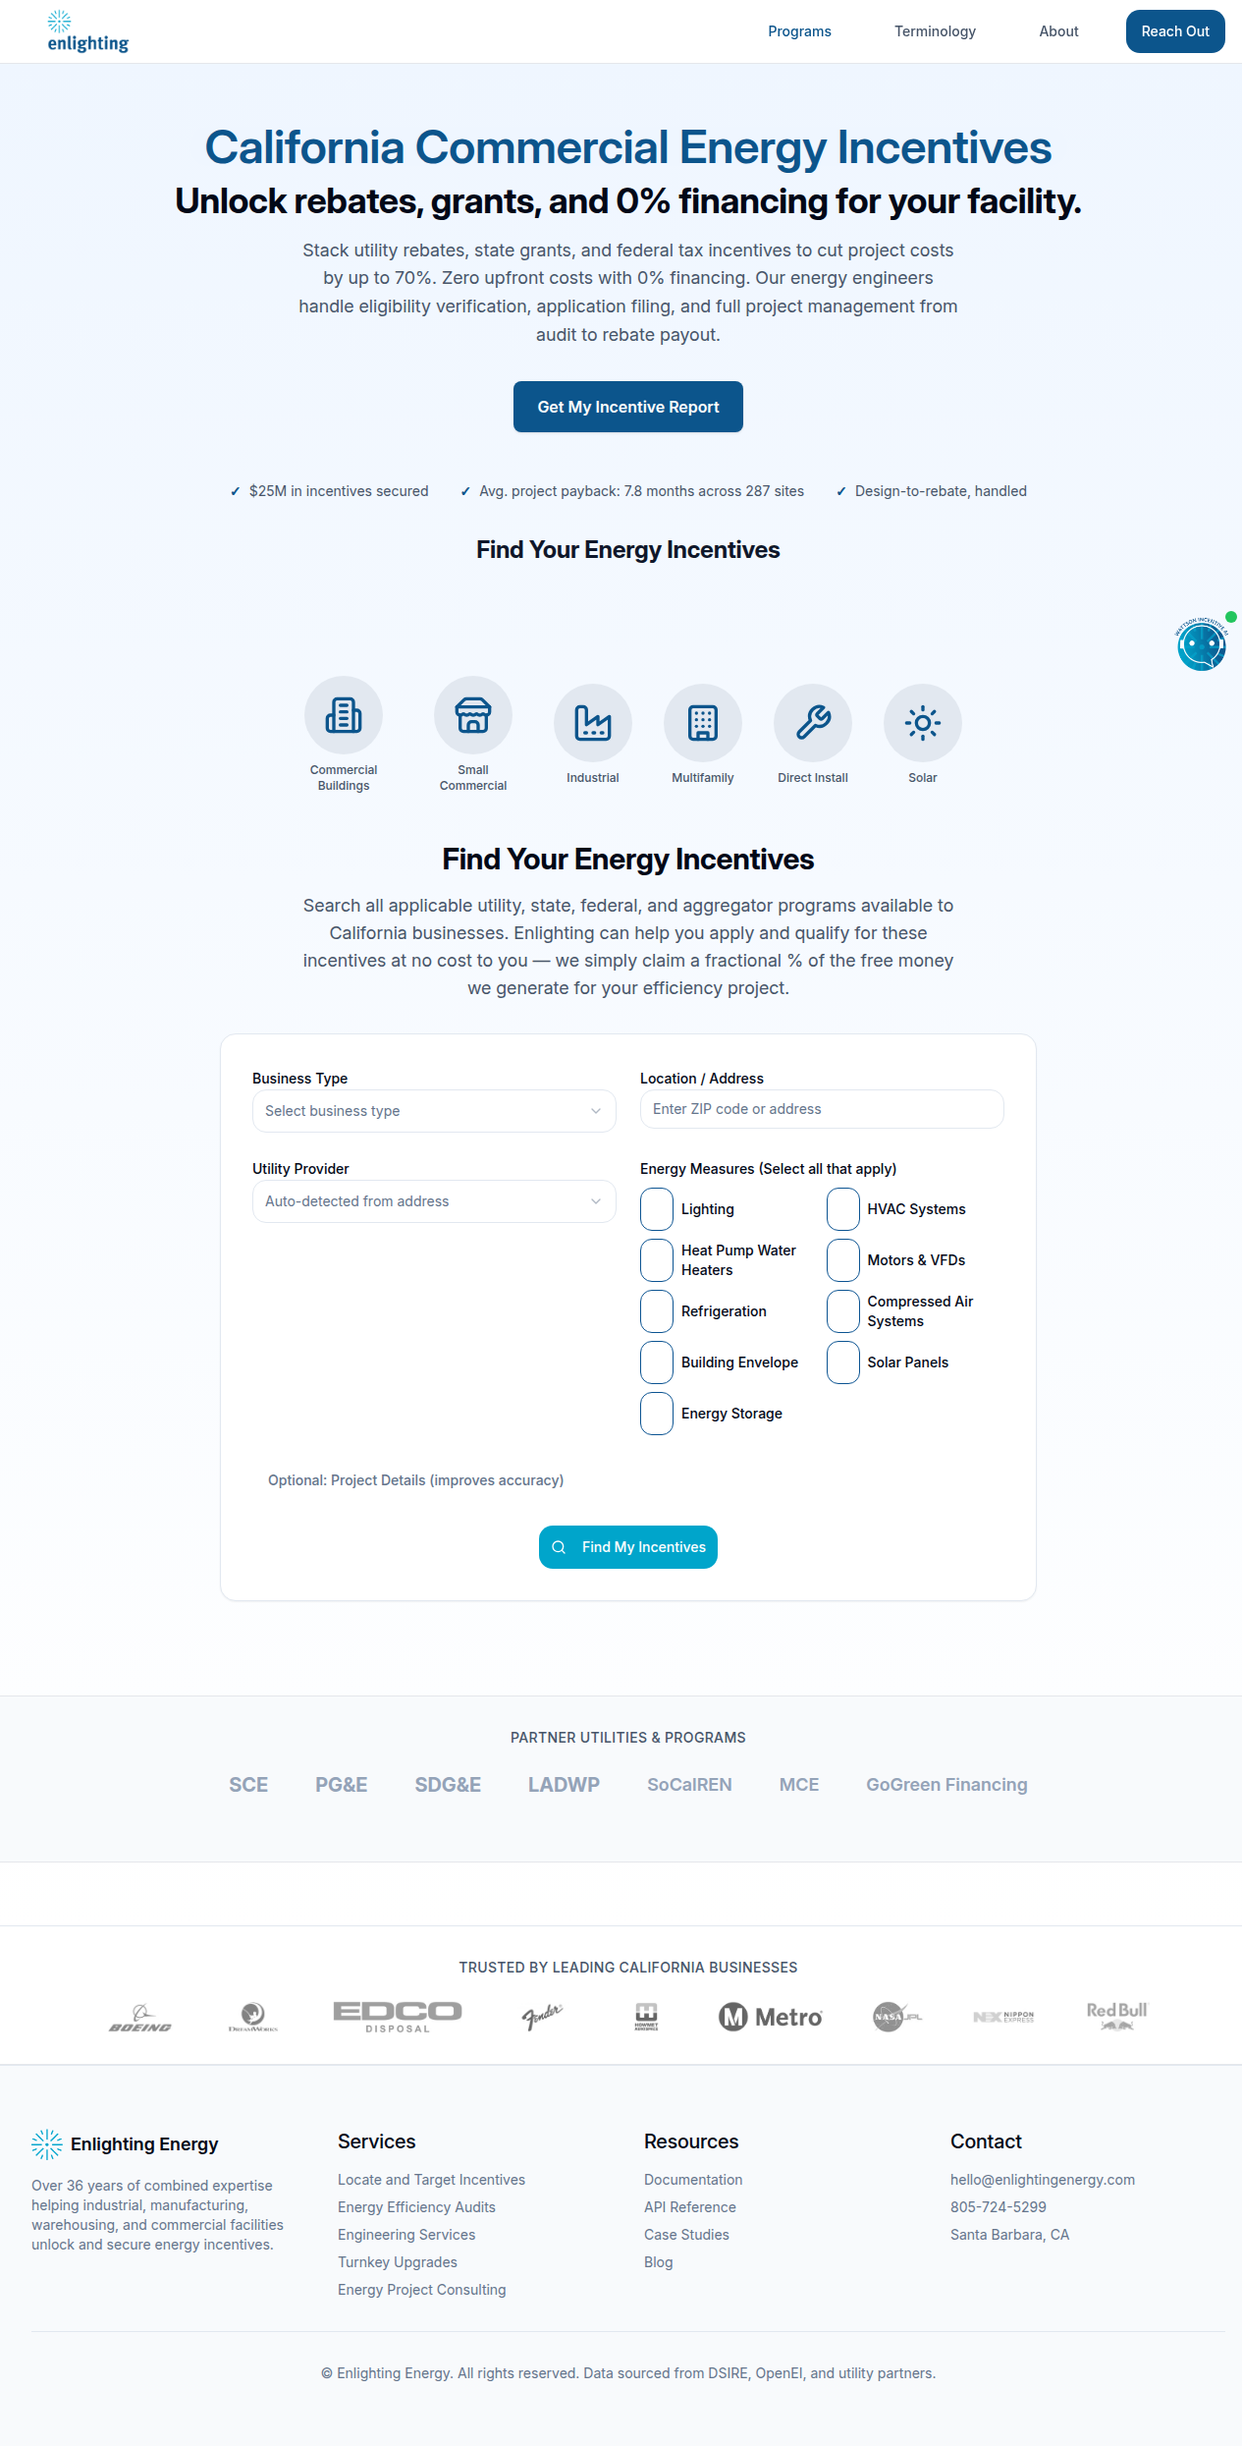
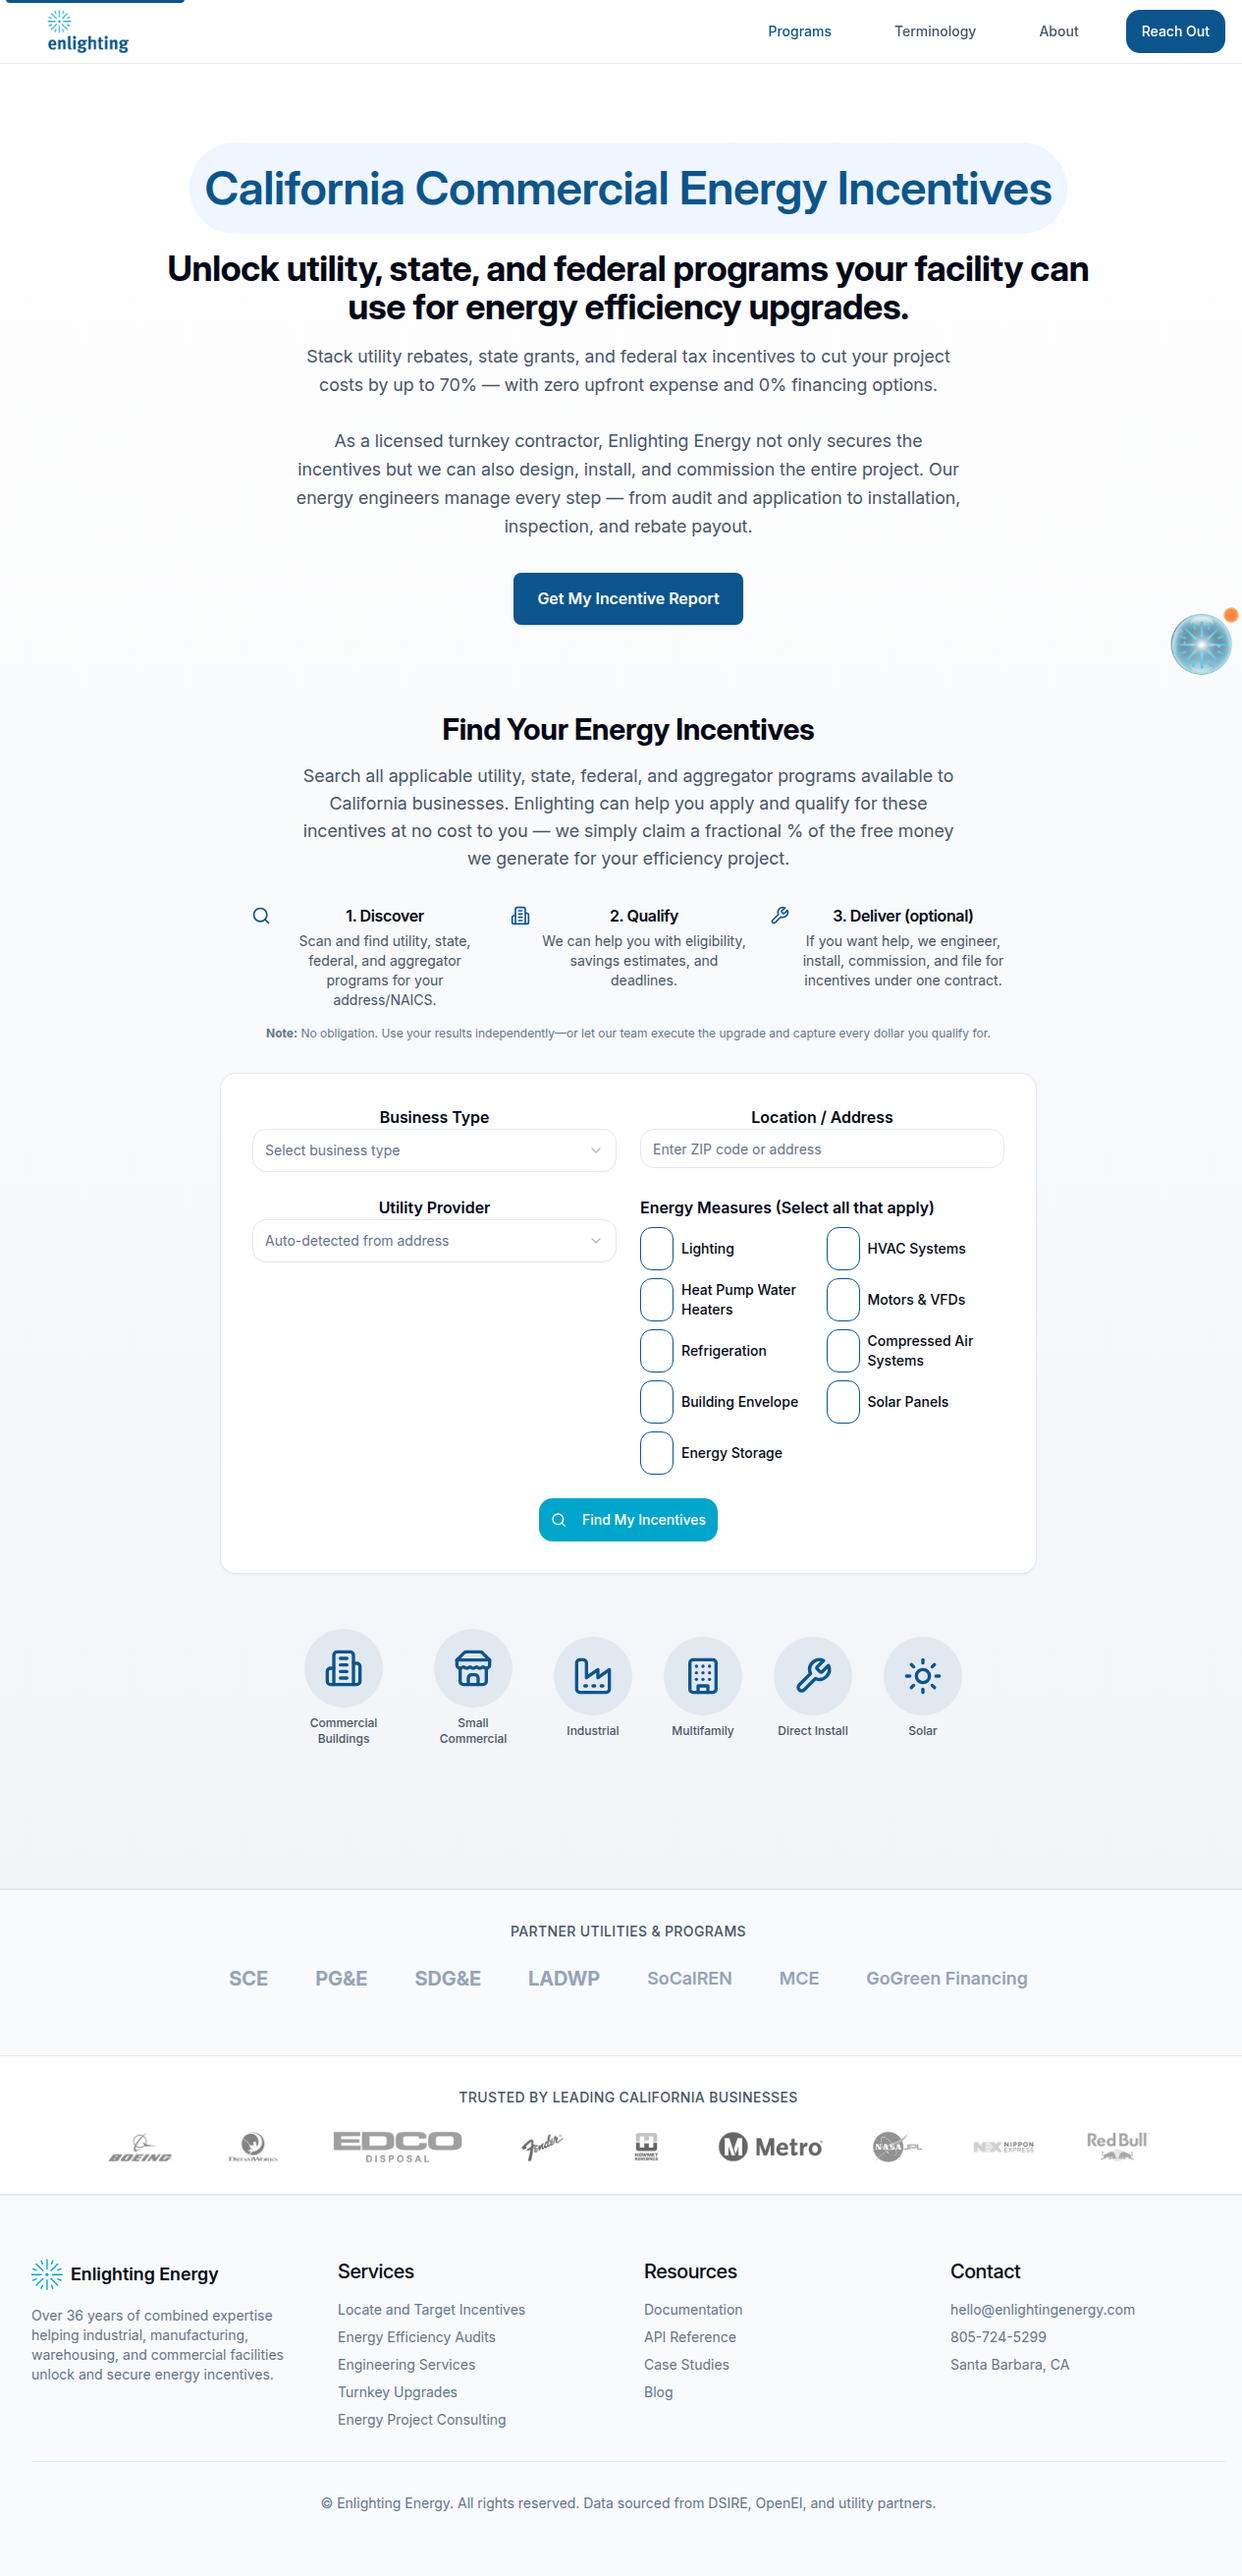
Enhance homepage with program discovery and application guidance
Update UI components for the hero section and results display, introducing a 3-step discovery process and refining layout and typography.

Replit-Commit-Author: Agent
Replit-Commit-Session-Id: 1c4d7166-b698-46de-927d-f95bc635f1d6
Replit-Commit-Checkpoint-Type: intermediate_checkpoint
Replit-Commit-Screenshot-Url: https://storage.googleapis.com/screenshot-production-us-central1/5dd90098-92d2-41ff-94f5-015185089872/1c4d7166-b698-46de-927d-f95bc635f1d6/mSN0LuX

diff --git a/client/src/pages/home.tsx b/client/src/pages/home.tsx
@@ -9,6 +9,7 @@ import ProgramDetailsModal from "@/components/program-details-modal";
 import ApplyEnlightingModal from "@/components/apply-enlighting-modal";
 import { ChatBot } from "@/components/chatbot";
 import { Button } from "@/components/ui/button";
+import { Card } from "@/components/ui/card";
 import { Select, SelectContent, SelectItem, SelectTrigger, SelectValue } from "@/components/ui/select";
 import { api } from "@/lib/api";
 import type { SearchProgramsParams, Program } from "@shared/schema";
@@ -166,7 +167,7 @@ export default function Home() {
       <section className="hero" data-testid="hero-section">
         <div className="hero__inner">
           <div className="hero__kicker">California Commercial Energy Incentives</div>
-          <h1 className="hero__title">Unlock rebates, grants, and 0% financing — and let us handle the entire upgrade.</h1>
+          <h1 className="hero__title">Unlock utility, state, and federal programs your facility can use for energy efficiency upgrades.</h1>
           <p className="hero__sub">
             Stack utility rebates, state grants, and federal tax incentives to cut your project costs by up to 70% — with zero upfront expense and 0% financing options.
             <br /><br />
@@ -203,9 +204,6 @@ export default function Home() {
                     <span className="divider">•</span>
                     <span>Last updated: <span>Sep 2025</span></span>
                   </div>
-                  <p className="summary__note">
-                    <strong>Book a free on-site audit</strong> to verify eligibility and maximize your payout.
-                  </p>
                 </div>
                 <div className="summary__countdown">
                   <div className="countdown" data-testid="countdown-timer">
@@ -223,7 +221,7 @@ export default function Home() {
           </section>
 
           <section className="py-16 bg-slate-50" data-testid="results-section">
-            <div className="max-w-7xl mx-auto px-4 sm:px-6 lg:px-8">
+            <div className="mx-auto px-4 sm:px-6 lg:px-8" style={{ maxWidth: '1180px' }}>
               {/* Horizontal Filters Bar */}
               <div className="bg-white rounded-2xl shadow-sm border border-gray-200 p-6 mb-8">
                 <div className="flex flex-col lg:flex-row gap-4 items-center">
@@ -298,32 +296,18 @@ export default function Home() {
               </div>
 
               {/* Action Bar */}
-              <div className="flex items-center justify-between mb-8">
-                <div>
-                  <h3 className="text-2xl font-bold text-foreground">Available Incentives</h3>
-                  <p className="text-slate-600 mt-1">
-                    California utility, state, and federal energy efficiency programs
-                  </p>
-                </div>
-                <div className="flex items-center space-x-4">
-                  <Button 
-                    variant="outline"
-                    onClick={() => setLeadModalOpen(true)}
-                    data-testid="button-email-report"
-                  >
-                    📄 Email Report
-                  </Button>
-                  <Button 
-                    className="bg-[#00a5cb] hover:bg-[#0094b3]"
-                    onClick={() => setLeadModalOpen(true)}
-                    data-testid="button-book-audit"
-                  >
-                    Book Free Energy Audit
-                  </Button>
-                </div>
+              <div className="mb-8">
+                <h3 className="text-2xl font-bold text-foreground">Available Incentives</h3>
+                <p className="text-slate-600 mt-1">
+                  California utility, state, and federal energy efficiency programs
+                </p>
               </div>
 
-              {/* Results */}
+              {/* 2-Column Layout: Programs + Right Rail Card */}
+              <div className="grid grid-cols-1 lg:grid-cols-3 gap-8">
+                {/* Main Programs Column (left, takes 2/3 of space) */}
+                <div className="lg:col-span-2">
+                  {/* Results */}
               {isLoading ? (
                 <div className="text-center py-12" data-testid="loading-state">
                   <p className="text-slate-600">Searching for programs...</p>
@@ -381,6 +365,37 @@ export default function Home() {
                   ))}
                 </div>
               )}
+                </div>
+                
+                {/* Right Rail CTA Card (right, takes 1/3 of space) */}
+                <div className="lg:col-span-1">
+                  <div className="sticky top-8">
+                    <Card className="bg-white shadow-md rounded-xl p-6" data-testid="right-rail-cta">
+                      <h4 className="font-bold text-lg mb-3 text-slate-900">Want help implementing?</h4>
+                      <p className="text-sm text-slate-600 mb-6">
+                        Our licensed team can design, install, and file for these incentives under one contract.
+                      </p>
+                      <div className="space-y-3">
+                        <Button 
+                          className="w-full bg-[#0c558c] hover:bg-[#0a4876]"
+                          onClick={() => setLeadModalOpen(true)}
+                          data-testid="button-talk-to-engineer"
+                        >
+                          Talk to an Engineer
+                        </Button>
+                        <Button 
+                          variant="outline"
+                          className="w-full border-[#5aafef] border-opacity-28 hover:bg-[#5aafef] hover:bg-opacity-8"
+                          onClick={() => setLeadModalOpen(true)}
+                          data-testid="button-email-report-rail"
+                        >
+                          Email me this report
+                        </Button>
+                      </div>
+                    </Card>
+                  </div>
+                </div>
+              </div>
             </div>
         </section>
         </>

diff --git a/client/src/components/hero-search-form.tsx b/client/src/components/hero-search-form.tsx
@@ -134,6 +134,36 @@ export default function HeroSearchForm({ onSearch }: HeroSearchFormProps) {
           <p className="text-lg text-slate-600 max-w-2xl mx-auto">
             Search all applicable utility, state, federal, and aggregator programs available to California businesses. Enlighting can help you apply and qualify for these incentives at no cost to you — we simply claim a fractional % of the free money we generate for your efficiency project.
           </p>
+          
+          {/* 3-Step Process */}
+          <div className="mt-8 max-w-3xl mx-auto">
+            <div className="grid grid-cols-1 md:grid-cols-3 gap-6 mb-4">
+              <div className="flex items-start gap-3">
+                <Search className="h-5 w-5 text-[#0c558c] mt-0.5 flex-shrink-0" />
+                <div>
+                  <h3 className="font-semibold text-base mb-1">1. Discover</h3>
+                  <p className="text-sm text-slate-600">Scan and find utility, state, federal, and aggregator programs for your address/NAICS.</p>
+                </div>
+              </div>
+              <div className="flex items-start gap-3">
+                <Building2 className="h-5 w-5 text-[#0c558c] mt-0.5 flex-shrink-0" />
+                <div>
+                  <h3 className="font-semibold text-base mb-1">2. Qualify</h3>
+                  <p className="text-sm text-slate-600">We can help you with eligibility, savings estimates, and deadlines.</p>
+                </div>
+              </div>
+              <div className="flex items-start gap-3">
+                <Wrench className="h-5 w-5 text-[#0c558c] mt-0.5 flex-shrink-0" />
+                <div>
+                  <h3 className="font-semibold text-base mb-1">3. Deliver (optional)</h3>
+                  <p className="text-sm text-slate-600">If you want help, we engineer, install, commission, and file for incentives under one contract.</p>
+                </div>
+              </div>
+            </div>
+            <p className="text-xs text-slate-500 text-center">
+              <strong>Note:</strong> No obligation. Use your results independently—or let our team execute the upgrade and capture every dollar you qualify for.
+            </p>
+          </div>
         </div>
 
         <Card>

diff --git a/client/src/index.css b/client/src/index.css
@@ -103,25 +103,27 @@
 
   body {
     @apply font-sans antialiased bg-background text-foreground;
-    font-size: 16px;
-    line-height: 24px;
+    font-size: 17px;
+    line-height: 1.6;
   }
 
   h1, h2, h3, h4, h5, h6 {
-    letter-spacing: var(--tracking-tight);
+    letter-spacing: -0.02em;
     font-weight: 600;
   }
 
   h1 {
-    font-size: 36px;
+    font-size: 52px;
     font-weight: 700;
     line-height: 1.1;
+    letter-spacing: -0.02em;
   }
 
   h2 {
-    font-size: 28px;
+    font-size: 30px;
     font-weight: 600;
     line-height: 1.2;
+    letter-spacing: -0.01em;
   }
 
   h3 {
@@ -258,12 +260,12 @@
 
 /* ========== HERO STYLES ========== */
 .hero{
-  background: linear-gradient(to bottom, var(--blue-50), #ffffff);
+  background: linear-gradient(to bottom, #ffffff, hsl(215, 25%, 96%));
   border-bottom: 1px solid var(--border);
-  padding: 4rem 0;
+  padding: 5rem 0;
 }
 .hero__inner{
-  max-width: 1100px; 
+  max-width: 1180px; 
   margin: 0 auto; 
   padding: 0 1.25rem;
   text-align: center;
@@ -361,7 +363,7 @@
 }
 
 /* ========== RESULTS STYLES ========== */
-.summary{ max-width:1100px; margin:22px auto 10px; padding:0 20px;}
+.summary{ max-width:1180px; margin:4rem auto 2.5rem; padding:0 1.25rem;}
 .summary__card{
   background:var(--card); border:1px solid #ececec; border-radius:var(--radius); box-shadow:var(--shadow-custom);
   padding:20px;
